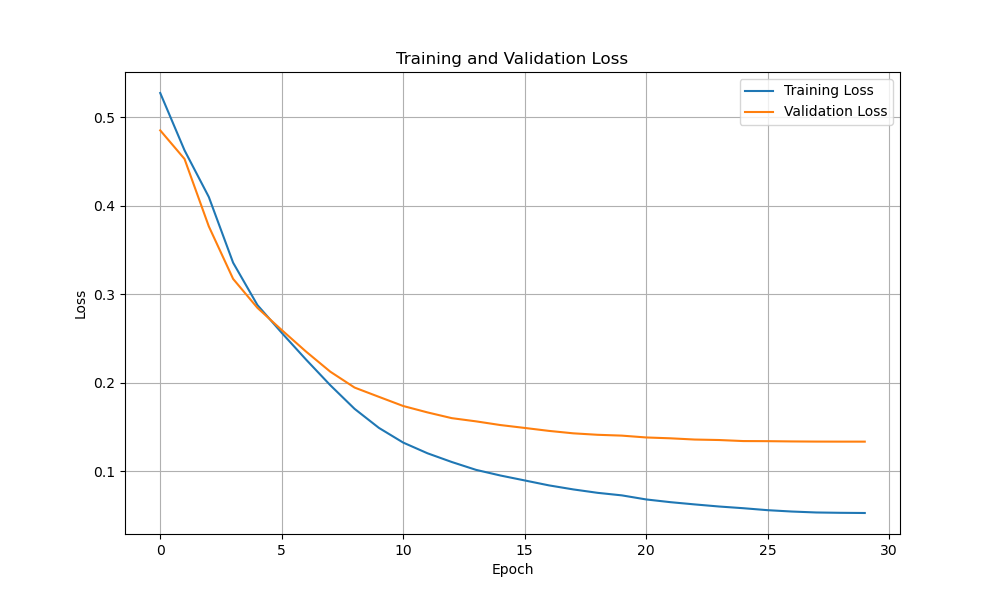
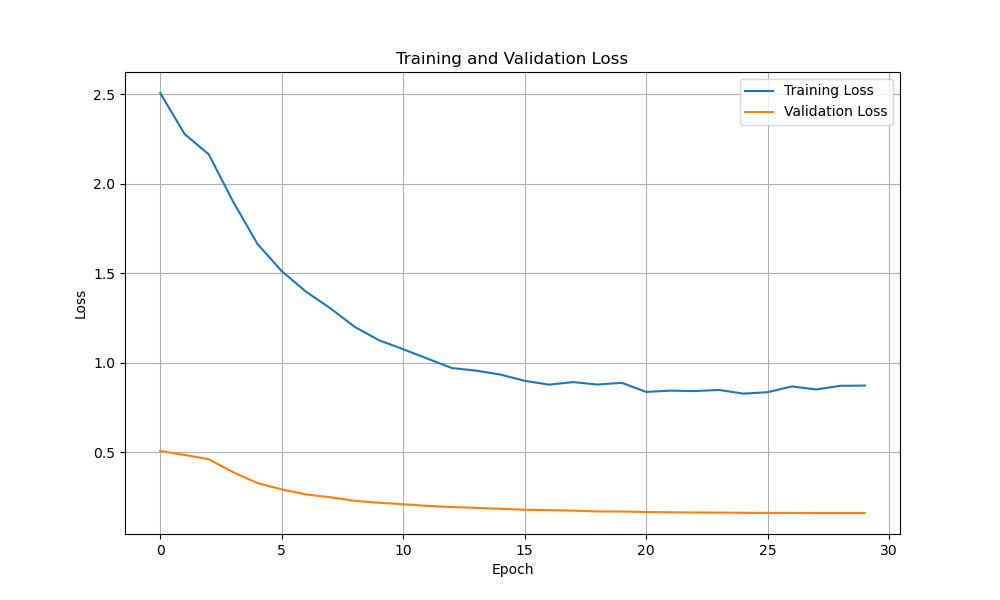
Enhance ClimbLSTM with auxiliary output heads for hold and limb predictions; update forward method to return auxiliary outputs; modify ClimbGenerator to accommodate new hold mapping

diff --git a/lstm.py b/lstm.py
@@ -354,7 +354,8 @@ class FocalLoss(nn.Module):
 class ClimbLSTM(nn.Module):
     def __init__(self, vocab_size, embedding_dim=128, hidden_dim=256, num_layers=2, dropout=0.2,
                  spatial_features=None, spatial_proj_dim=32,
-                 num_difficulty_buckets=0, difficulty_embed_dim=16):
+                 num_difficulty_buckets=0, difficulty_embed_dim=16,
+                 num_holds=0):
         super().__init__()
         self.num_layers = num_layers
         self.hidden_dim = hidden_dim
@@ -389,6 +390,15 @@ class ClimbLSTM(nn.Module):
         self.dropout = nn.Dropout(dropout)
         self.fc = nn.Linear(hidden_dim, vocab_size)
 
+        # Auxiliary output heads: separate hold and limb predictors provide
+        # factorised gradient signal during training without changing inference.
+        if num_holds > 0:
+            self.fc_hold = nn.Linear(hidden_dim, num_holds)
+            self.fc_limb = nn.Linear(hidden_dim, 4)
+        else:
+            self.fc_hold = None
+            self.fc_limb = None
+
         # Difficulty conditioning: condition the LSTM's initial (h, c) on a
         # bucketed difficulty level.  Padding index 0 = 'unknown' → zero vector.
         if num_difficulty_buckets > 0:
@@ -409,8 +419,13 @@ class ClimbLSTM(nn.Module):
         self.embedding.weight.data.uniform_(-init_range, init_range)
         self.fc.weight.data.uniform_(-init_range, init_range)
         self.fc.bias.data.zero_()
+        if self.fc_hold is not None:
+            self.fc_hold.weight.data.uniform_(-init_range, init_range)
+            self.fc_hold.bias.data.zero_()
+            self.fc_limb.weight.data.uniform_(-init_range, init_range)
+            self.fc_limb.bias.data.zero_()
 
-    def forward(self, x, hidden=None, difficulty=None):
+    def forward(self, x, hidden=None, difficulty=None, return_aux=False):
         embedded = self.embedding(x)
 
         if self.spatial_features is not None and self.spatial_proj is not None:
@@ -429,7 +444,10 @@ class ClimbLSTM(nn.Module):
 
         lstm_out, hidden = self.lstm(embedded, hidden)
         out = self.dropout(self.layer_norm(lstm_out))
-        return self.fc(out), hidden
+        composite = self.fc(out)
+        if return_aux and self.fc_hold is not None:
+            return composite, self.fc_hold(out), self.fc_limb(out), hidden
+        return composite, hidden
 
 class EarlyStopping:
     def __init__(self, patience=7, min_delta=0.001, restore_best_weights=True):
@@ -513,6 +531,7 @@ class ClimbGenerator:
                 dropout=0.2,
                 spatial_features=self.dataset.build_spatial_features(),
                 num_difficulty_buckets=NUM_DIFFICULTY_BUCKETS,
+                num_holds=len(self.dataset.hold_mapping),
             ).to(device)
             
             state_dict = torch.load(model_path, map_location=device)
@@ -550,6 +569,7 @@ class ClimbGenerator:
             dropout=0.2,
             spatial_features=self.dataset.build_spatial_features(),
             num_difficulty_buckets=NUM_DIFFICULTY_BUCKETS,
+            num_holds=len(self.dataset.hold_mapping),
         ).to(device)
         
         #Set up loss, optimizer and schedulers
@@ -598,8 +618,53 @@ class ClimbGenerator:
                     )
                 
                 optimizer.zero_grad()
-                outputs, _ = self.model(inputs, difficulty=difficulties)
-                loss = criterion(outputs.reshape(-1, self.dataset.vocab_size), targets.reshape(-1))
+
+                # Scheduled sampling: teacher-forcing ratio decays linearly
+                # from 1.0 → 0.5 over training, reducing exposure bias.
+                tf_ratio = max(0.5, 1.0 - 0.5 * epoch / num_epochs)
+                seq_len = inputs.shape[1]
+                hidden = None
+                logits_list, hold_list, limb_list = [], [], []
+                current_input = inputs[:, 0:1]
+                for t in range(seq_len):
+                    logit_t, hold_t, limb_t, hidden = self.model(
+                        current_input, hidden, difficulty=difficulties, return_aux=True
+                    )
+                    logits_list.append(logit_t)
+                    hold_list.append(hold_t)
+                    limb_list.append(limb_t)
+                    if t < seq_len - 1:
+                        if random.random() < tf_ratio:
+                            current_input = inputs[:, t + 1:t + 2]
+                        else:
+                            with torch.no_grad():
+                                current_input = logit_t.argmax(dim=-1)
+
+                outputs     = torch.cat(logits_list, dim=1)
+                hold_logits = torch.cat(hold_list,   dim=1)
+                limb_logits = torch.cat(limb_list,   dim=1)
+
+                loss_main = criterion(
+                    outputs.reshape(-1, self.dataset.vocab_size), targets.reshape(-1)
+                )
+
+                # Auxiliary factorised losses on non-PAD positions.
+                # Encoding: token = (hold_token * 4) + limb_token + 1
+                # → hold_token = (token-1)//4,  limb_token = (token-1)%4
+                num_holds = len(self.dataset.hold_mapping)
+                hold_targets = torch.zeros_like(targets)
+                limb_targets = torch.full_like(targets, -1)
+                valid_mask = targets > 0
+                hold_targets[valid_mask] = (targets[valid_mask] - 1) // 4
+                limb_targets[valid_mask] = (targets[valid_mask] - 1) % 4
+                loss_hold = F.cross_entropy(
+                    hold_logits.reshape(-1, num_holds), hold_targets.reshape(-1), ignore_index=0
+                )
+                loss_limb = F.cross_entropy(
+                    limb_logits.reshape(-1, 4), limb_targets.reshape(-1), ignore_index=-1
+                )
+
+                loss = loss_main + 0.3 * loss_hold + 0.3 * loss_limb
                 loss.backward()
                 
                 #Gradient clipping
